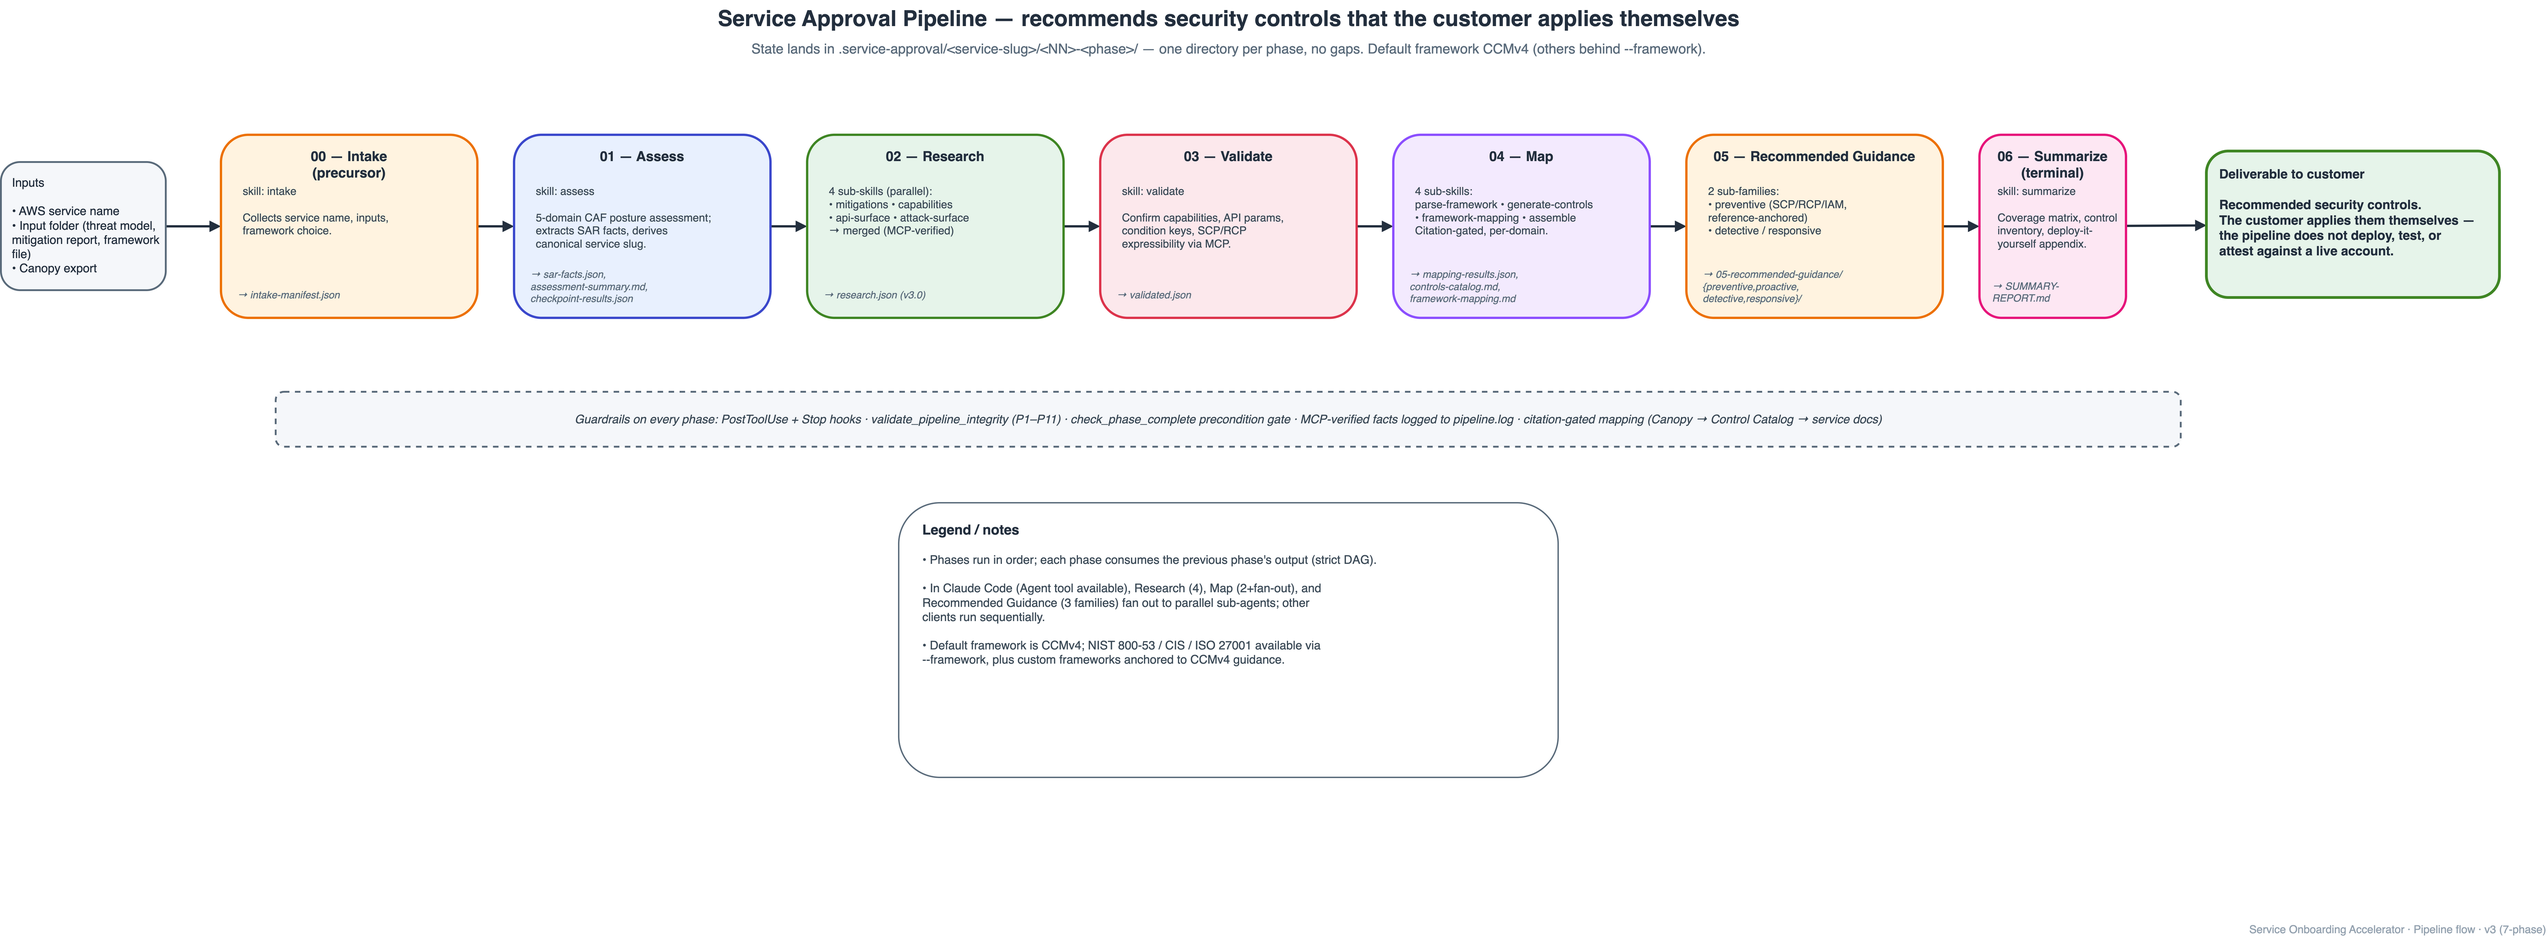
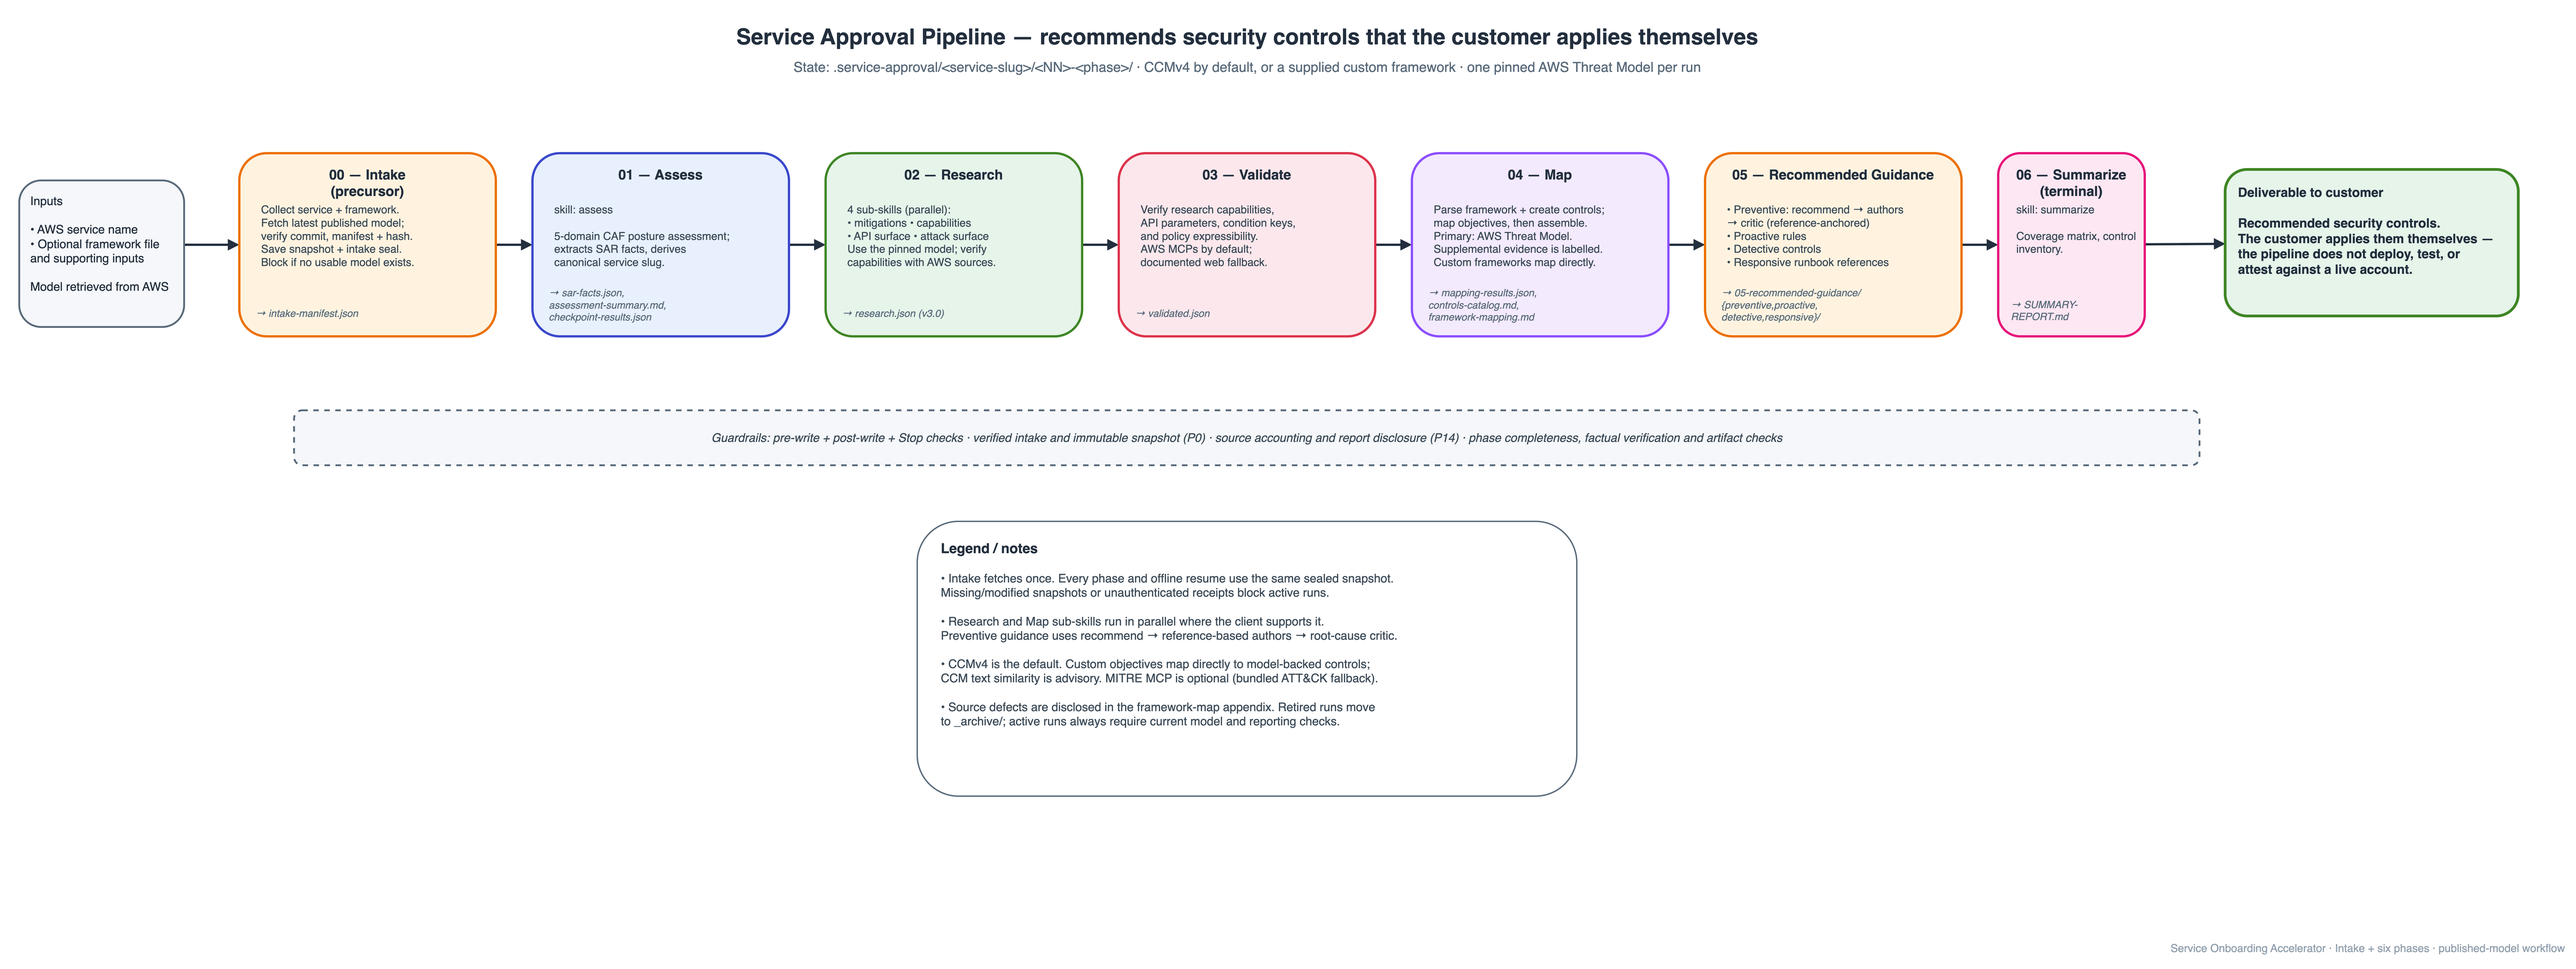
Refresh the README pipeline diagram and upgrade instructions
Show automatic model retrieval, authenticated snapshots, direct custom-framework evidence, optional MITRE, and current guardrails. Regenerate both PNGs and document the workspace archive command; correct responsive guidance outputs.

diff --git a/README.md b/README.md
@@ -247,7 +247,7 @@ services:
 | Preventive | 9–12 | SCPs (split), resource policies, KMS key policy, permission boundary, VPC endpoint, RCP, tag policies |
 | Proactive | 12–15 | CFN Guard rules, OPA policies (per resource type), Checkov config + custom policies, CFN hooks |
 | Detective | 34–47 | Config rules + Lambda handlers, EventBridge rules, CloudWatch alarms, Access Analyzer, compensating controls |
-| Responsive | 6 | Lambda remediator + SAM template, SSM runbooks (org + account), Step Functions workflow |
+| Responsive | Varies | References to pre-authored AWS SSM Automation runbooks and how-to-use guides |
 
 
 ---
@@ -259,7 +259,8 @@ previous phase's output — a strict DAG — and writes to its own directory.
 
 ![Pipeline flow](docs/pipeline-flow.drawio.png)
 
-- **Intake** — collects the service name and framework choice → `intake-manifest.json`.
+- **Intake** — collects the service and framework, verifies the current published
+  AWS Threat Model, and saves a sealed snapshot → `intake-manifest.json`.
 - **Assess** — 5-domain CAF security posture assessment.
 - **Research** — discovers capabilities, API surface, and MITRE ATT&CK attack
   surface (4 parallel sub-skills, then merged) → `research.json`.
@@ -269,6 +270,25 @@ previous phase's output — a strict DAG — and writes to its own directory.
 - **Recommended Guidance** — produces the control artifacts across all
   categories (preventive is a gated sub-pipeline).
 - **Summarize** — the coverage matrix and control inventory → `SUMMARY-REPORT.md`.
+
+The same model snapshot is used throughout the run and on offline resume.
+Custom frameworks map directly to AWS Threat Model evidence; CCMv4 similarity
+is supporting guidance. See [source verification and workspace upgrades](docs/THREAT-MODELS.md).
+
+### Upgrading a workspace with old runs
+
+Old completed runs may predate the current model-verification and reporting
+requirements. Preserve their reports and retire them from the active sweep:
+
+```bash
+# Run from the customer workspace, using the installed repository's script path.
+python3 /path/to/service-onboarding/tools/archive_run.py --slug dsql --reason upgrade
+```
+
+This moves the selected run under ignored `.service-approval/_archive/`, without
+changing its reports or shared source snapshots. Then run `/service-approval`
+normally. An archive is a historical record, not approval under the new checks.
+See the [upgrade procedure](docs/THREAT-MODELS.md#upgrade-existing-workspaces).
 
 ---
 
@@ -301,7 +321,9 @@ The **published AWS Threat Model gate** retrieves current upstream data before
 assessment/research for new runs and rechecks the original snapshot locally on resume. Intake records
 `inputs.threat_model_file` and `inputs.threat_model_source`. Pre-write hooks,
 phase preconditions, and pipeline integrity enforce the model's shape, service
-identity, published provenance, and snapshot hash. AWS capability claims still
+identity, the authenticated intake seal, and snapshot hash. Only online intake
+checks AWS publication; offline resume verifies the prior intake and unchanged
+snapshot. AWS capability claims still
 require Research/Validate verification.
 
 Two complementary layers keep the output trustworthy.
